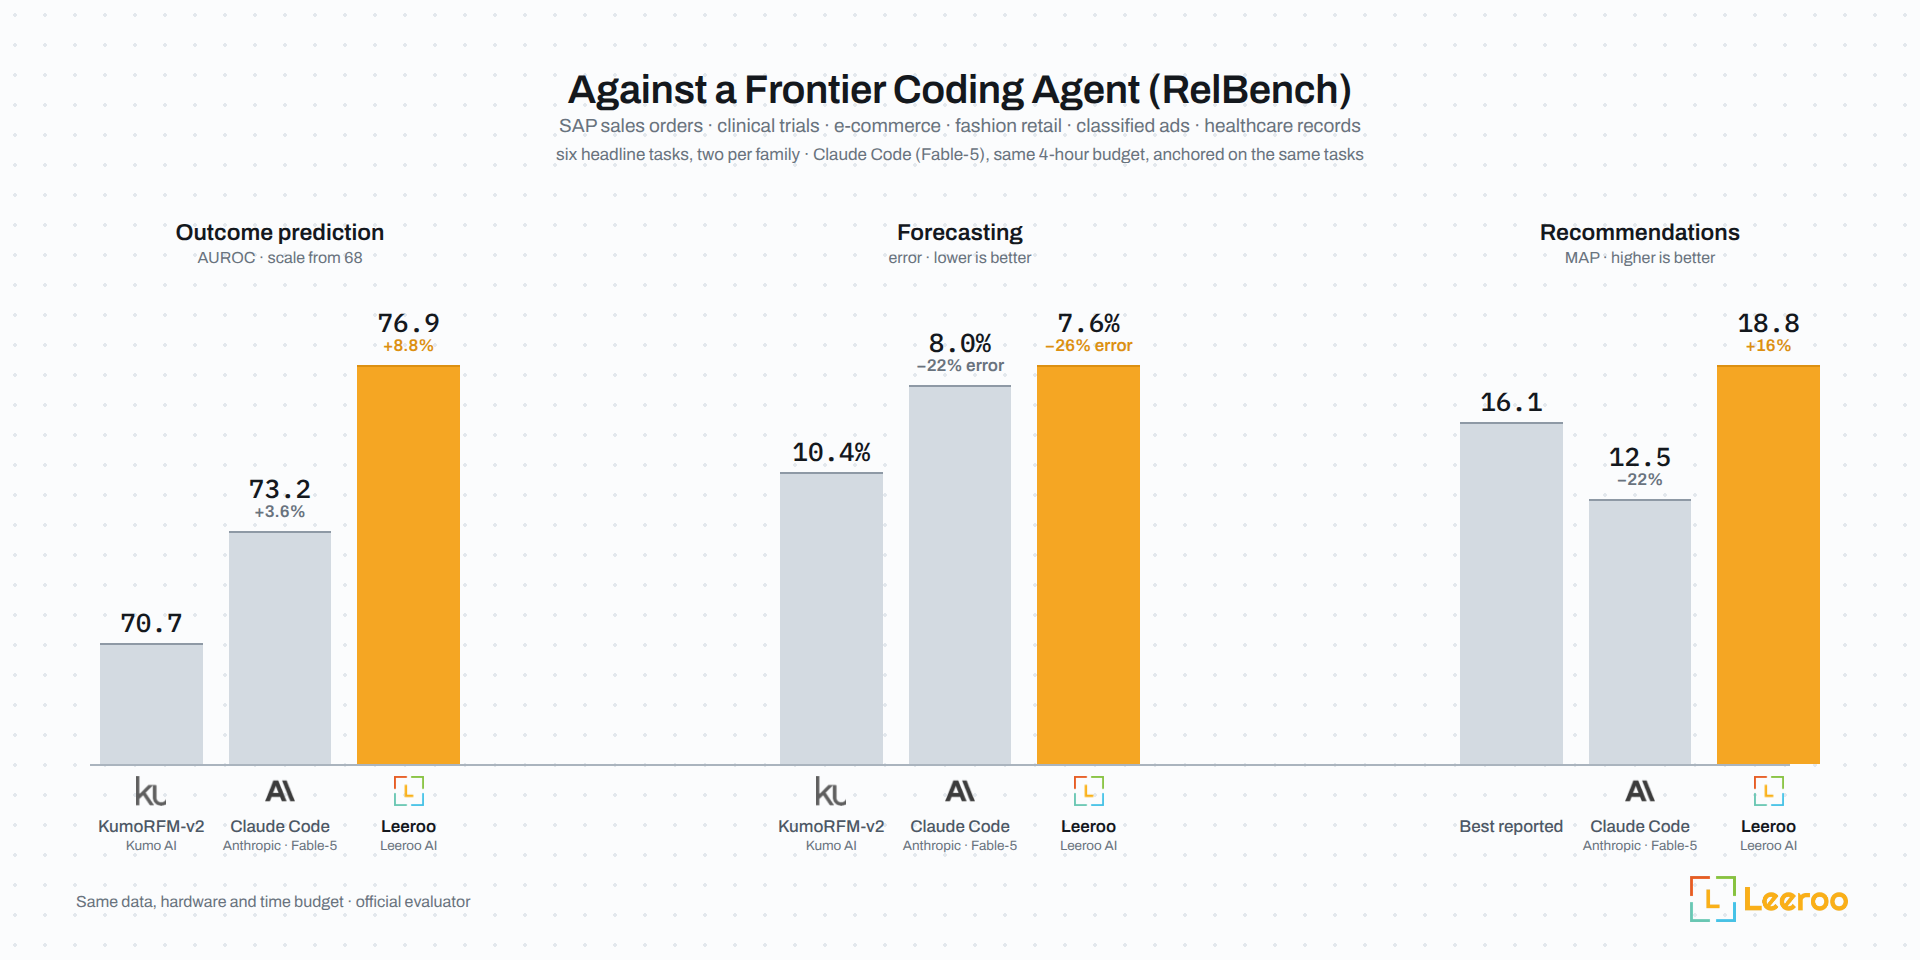
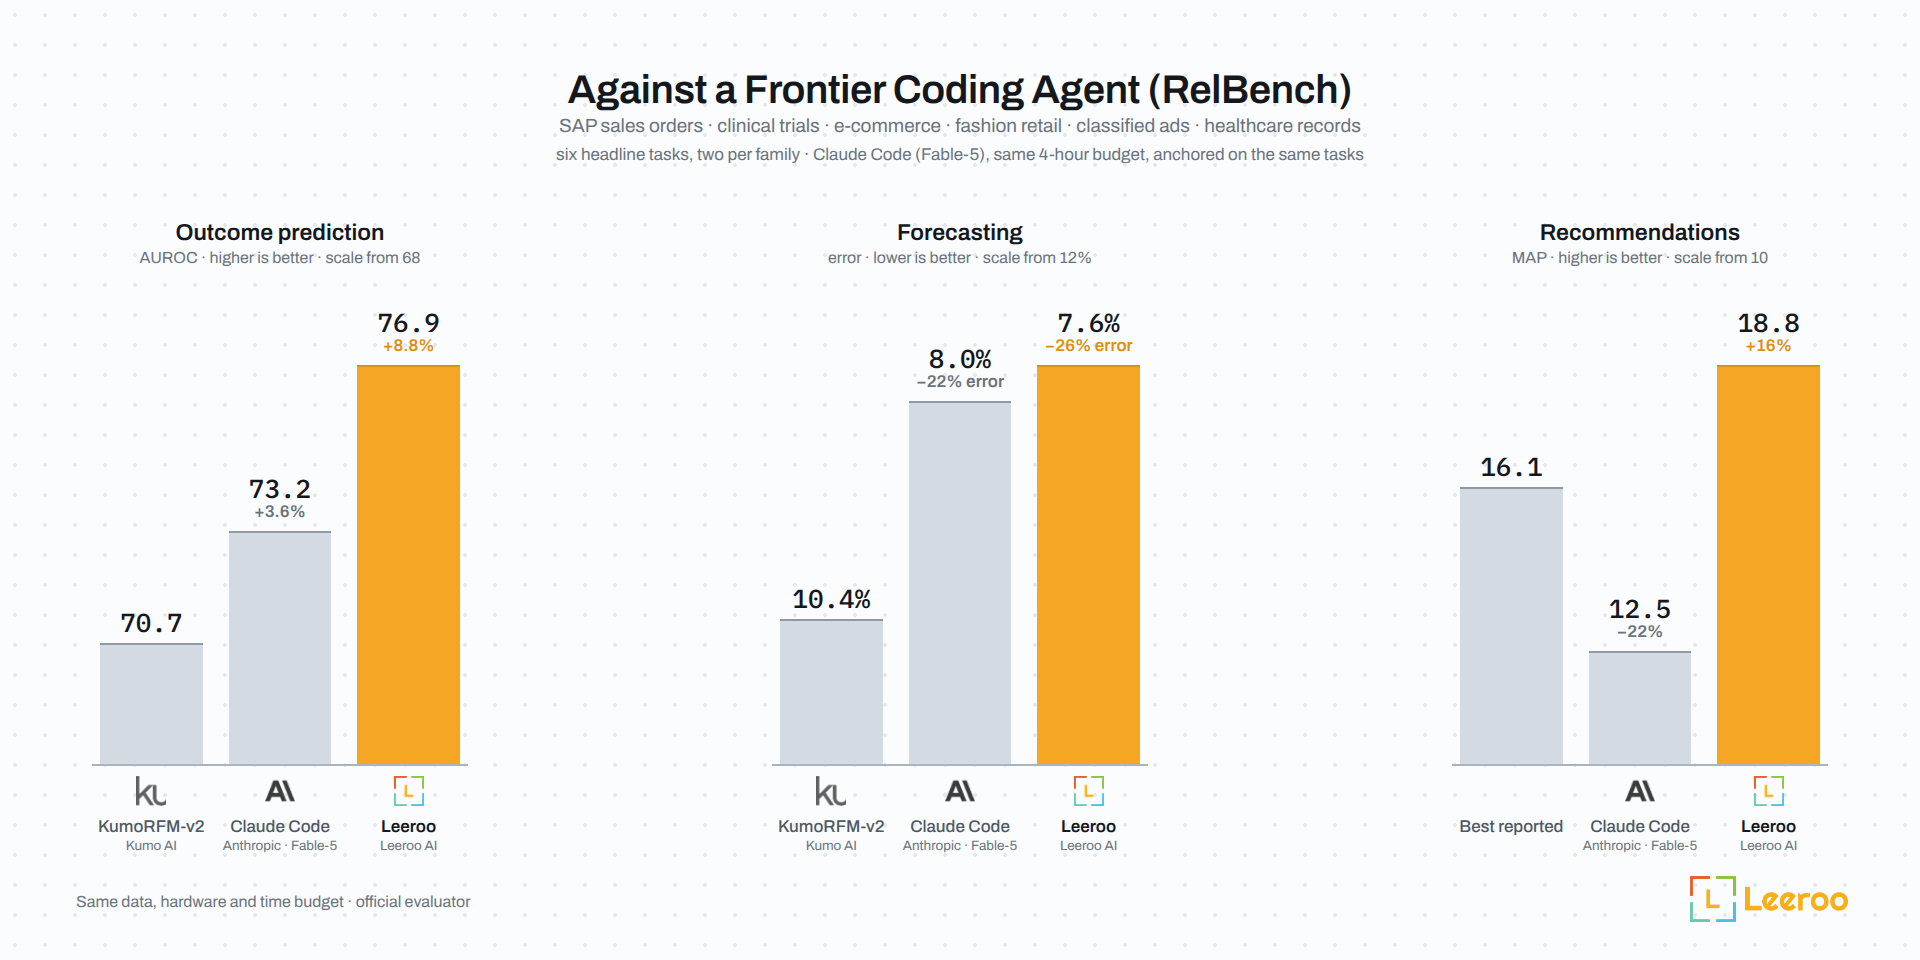
docs(images): give each RelBench panel its own truncated axis
Forecasting and recommendations were drawn from zero. Neither metric lives
anywhere near it — 0.2476 against 0.2912 NMAE, 18.4 against 15.7 MAP — so
both baselines came out at roughly 85% of the winner and the two systems
arrived as the same rectangle. Outcome prediction had been given a floor at
78 for exactly this reason; the other two never got one.

Every group now declares an axis origin in its own units and prints it in
the metric line, so the truncation is stated rather than inferred. Bar
length is the distance from that origin toward the better end, measured in
the units the axis names. The old code ranked error metrics by 1/v, which
moves the bars without moving the number that claims to explain them; on a
two-bar panel nobody could tell, but the Claude Code figure has three, and
there the gap between the drawn height and the declared scale is visible.

The one rule running beneath all three panels is now three separate axes.
Three units with three different origins under a single continuous line
implied a shared scale that never existed.

Both READMEs gain the numbers as a table, because a truncated axis is only
honest when the plain reading sits beside it, and every alt text now
carries the values instead of naming the task families.

Claude-Session: https://claude.ai/code/session_01S3uuGR1qKXt9L6QY3sjjQR

diff --git a/README.md b/README.md
@@ -32,9 +32,9 @@
 - **IOAI 2026 · the AI Model Track.** The [International Olympiad in AI](https://ioai-official.org) is the IMO of the AI era — 471 contestants from 108 countries and territories, six expert-designed tasks under a single-GPU budget. In 2026 it opened [IOAI²](https://ioai-official.org/ai-model-track/), where AI systems sit the *same* exam in two fully autonomous 6-hour sessions. Once the clock starts, no human may solve, correct, or improve anything. Kapso entered as one of 14 Founding AI Participants.
   - 🎓 **Outscored all 471 humans** — 536.07 total, above every contestant in the hall.
   - 🏆 **IOAI² Grand Master Trophy** — top 3 among all AI systems entered. [Full results →](benchmarks/ioai2026/README.md)
-- **Beats the best foundation model on [RelBench](benchmarks/relbench/README.md)**: on Stanford's benchmark for predictive ML over enterprise data, Kapso passes [KumoRFM-v2](https://docs.nvidia.com/sdgm/rfm/overview) in outcome prediction and forecasting, and the best reported results in recommendations. Published results live on the [official RelBench leaderboard](https://huggingface.co/spaces/relbench/leaderboard).
+- **Beats the best foundation model on [RelBench](benchmarks/relbench/README.md)**: on Stanford's benchmark for predictive ML over enterprise data, Kapso passes [KumoRFM-v2](https://docs.nvidia.com/sdgm/rfm/overview) in outcome prediction (81.2 vs 79.6 AUROC over 12 tasks) and forecasting (0.2476 vs 0.2912 NMAE over 9 tasks, 15% less error), and the best reported results in recommendations (18.4 vs 15.7 MAP over 10 tasks). Published results live on the [official RelBench leaderboard](https://huggingface.co/spaces/relbench/leaderboard).
 
-  <img src="https://raw.githubusercontent.com/Leeroo-AI/kapso/main/docs/images/relbench.png" alt="RelBench: Kapso against KumoRFM-v2 on outcome prediction, forecasting and recommendations" width="820">
+  <img src="https://raw.githubusercontent.com/Leeroo-AI/kapso/main/docs/images/relbench.png" alt="RelBench, three panels: outcome prediction, Kapso 81.2 AUROC against KumoRFM-v2's 79.6; forecasting, Kapso 0.2476 NMAE against 0.2912, lower being better; recommendations, Kapso 18.4 MAP against the best reported 15.7. Each panel is drawn from its own truncated axis, printed under the panel title" width="820">
 
 - **[Leeroopedia MCP Integration](https://leeroopedia.com)**: Kapso now connects to **Leeroopedia MCP** — your ML & Data Knowledge Wiki. Learnt by AI, built by AI, for AI. A centralized playbook of best practices and expert-level knowledge for Machine Learning and Data domains. Kapso agents use it during ideation and implementation to search knowledge, build plans, diagnose failures, and more.
 - **[Moltbook Agents 🦞](https://www.moltbook.com/)**: Build AI agents that optimize other agents and debate on Moltbook! [Get started →](moltbook_bot/README.md)

diff --git a/benchmarks/relbench/claude_code_baseline/README.md b/benchmarks/relbench/claude_code_baseline/README.md
@@ -6,10 +6,21 @@ one short generic prompt ([`PROMPT.md`](PROMPT.md)), the same hardware, and the 
 budget per task. Predictions are scored one way by the official RelBench evaluator
 ([`score_baseline.py`](score_baseline.py)); the agent never sees test labels.
 
-![Kapso vs Claude Code](../../../docs/images/relbench-vs-claude-code.png)
+![RelBench against a frontier coding agent, three panels: outcome prediction, KumoRFM-v2 70.7 AUROC, Claude Code 73.2, Kapso 76.9; forecasting, 10.4% error, 8.0%, 7.6%, lower being better; recommendations, best reported 16.1 MAP, Claude Code 12.5, Kapso 18.8](../../../docs/images/relbench-vs-claude-code.png)
 
 Six headline tasks, two per family. Kapso wins every settled cell, and in recommendations the
 raw agent stays below the best reported bar while Kapso clears it.
+
+| Family | Metric | Bar to beat | Claude Code | Kapso |
+|---|---|---|---|---|
+| Outcome prediction | AUROC, higher is better | 70.7 (KumoRFM-v2) | 73.2 (+3.6%) | **76.9** (+8.8%) |
+| Forecasting | error, lower is better | 10.4% (KumoRFM-v2) | 8.0% (−22%) | **7.6%** (−26%) |
+| Recommendations | MAP, higher is better | 16.1 (best reported) | 12.5 (−22%) | **18.8** (+16%) |
+
+The chart's panels are drawn from truncated axes — 68 AUROC, 12% error, 10 MAP, each printed
+under its own panel title — so that margins of a point or two are legible; the table is the
+same result without the axis. These six tasks are a different, smaller set from the
+[headline RelBench figure](../README.md#results), so the two are not comparable.
 
 Per-task scores, the drop protocol, and run archives: [`RESULTS.md`](RESULTS.md). The harness
 (`run_baseline.sh`) provisions a box, stages the sanitized cache, runs the agent under a hard

diff --git a/benchmarks/relbench/README.md b/benchmarks/relbench/README.md
@@ -22,7 +22,18 @@ beat in outcome prediction and forecasting. Recommendation tasks are the gap in 
 (the model does not support them), so there Kapso is measured against the best reported
 result per task. Kapso beats both bars:
 
-![Kapso vs KumoRFM-v2](../../docs/images/relbench.png)
+![RelBench, three panels: outcome prediction, Kapso 81.2 AUROC against KumoRFM-v2's 79.6; forecasting, Kapso 0.2476 NMAE against 0.2912, lower being better; recommendations, Kapso 18.4 MAP against the best reported 15.7](../../docs/images/relbench.png)
+
+| Family | Metric | Bar to beat | Kapso | Margin |
+|---|---|---|---|---|
+| Outcome prediction · 12 tasks | AUROC, higher is better | 79.6 (KumoRFM-v2) | **81.2** | +2.0% |
+| Forecasting · 9 tasks | NMAE, lower is better | 0.2912 (KumoRFM-v2) | **0.2476** | 15% less error |
+| Recommendations · 10 tasks | MAP, higher is better | 15.7 (best reported) | **18.4** | +18% |
+
+Each panel of the chart is drawn from a truncated axis — 78 AUROC, 0.35 NMAE, 12 MAP, each
+printed under its own panel title — because all three metrics live in a narrow band far from
+zero, and a zero-based bar renders a two-point AUROC margin as no margin at all. The table is
+the same result without the axis.
 
 All scores come from the official RelBench evaluator. The same solutions also beat a frontier
 coding agent (Claude Code, Fable-5) under an identical budget: see
